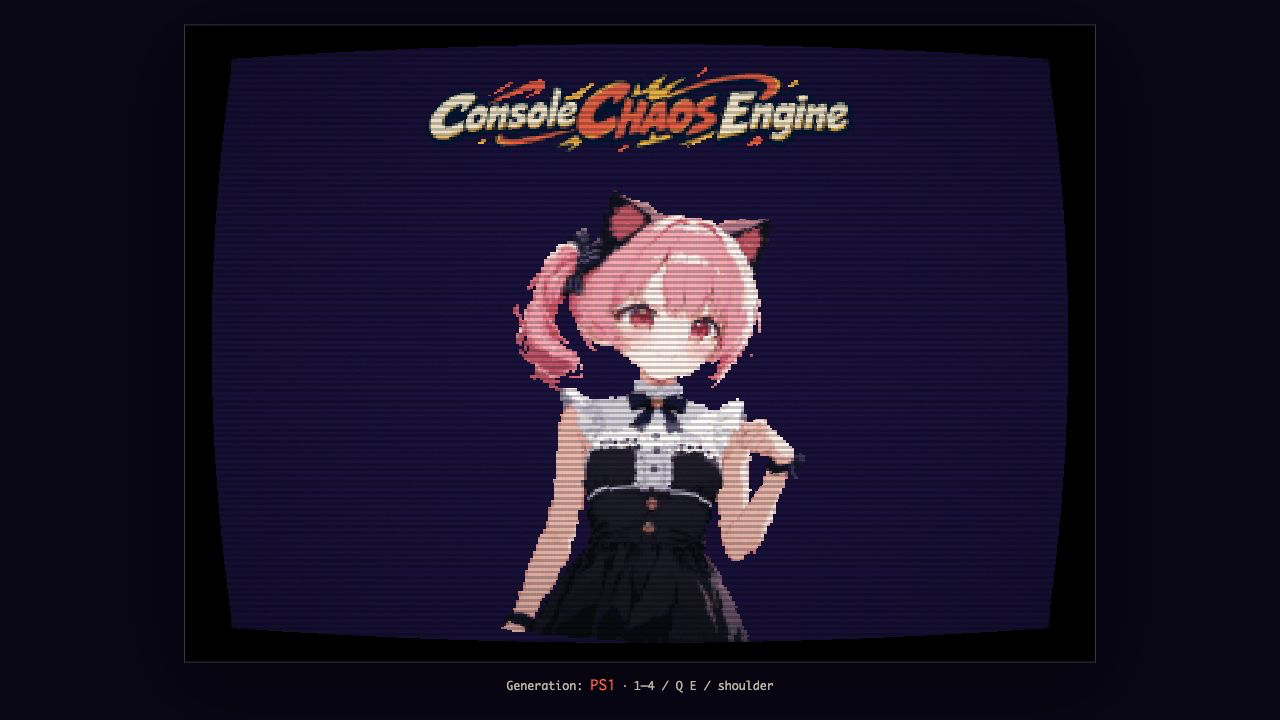
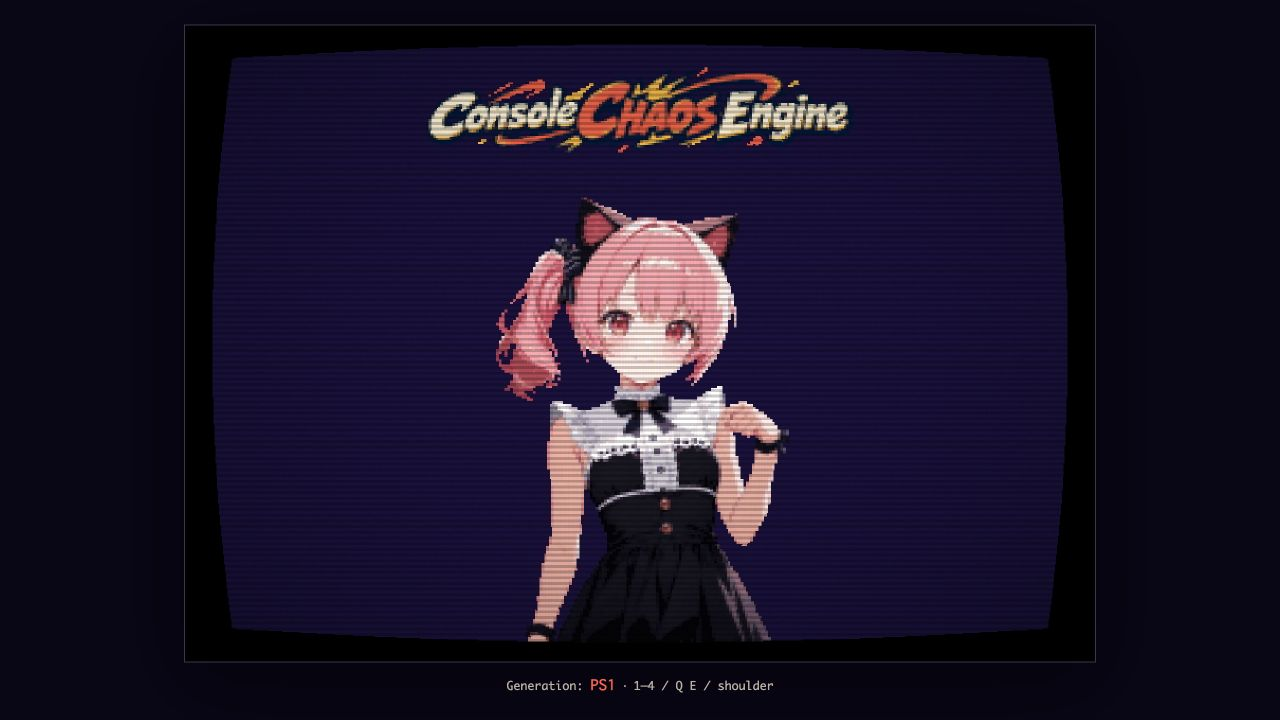
docs(asset-sample): verify imagegen source-frame workflow

Changed region(s): [[0.375, 0.275, 0.625, 0.9167], [0.3438, 0.0917, 0.6562, 0.2139]]

diff --git a/apps/asset-pipeline-sample/Docs/IMPLEMENTATION_PLAN.md b/apps/asset-pipeline-sample/Docs/IMPLEMENTATION_PLAN.md
@@ -4,12 +4,13 @@
 
 作成日: 2026-08-16
 
-状態: ImageGen変換元frameへの修正計画を策定済み（実装修正は未着手、2026-08-16）
+状態: P9〜P12のImageGen変換元frame修正、統合検証、記録を完了（2026-08-16）
 
 > **適合性メモ:** 2026-08-16に完了したP5/P6は、単一の `character-upper.png` をコードで
 > shear / warpして揺らしと目パチを生成している。この経路は「ImageGenでアニメーション状態ごとの
 > 変換元画像を `art/source` に用意し、そこから各世代へ変換する」という本サンプルの要件を満たさない。
-> 現行生成物は暫定扱いとし、P9〜P12で置き換える。
+> P9〜P12で9つのImageGen source frame、sourceごとのpipeline変換、authored pose residual、captureへ置き換えた。
+> P5/P6の実装は履歴としてのみ残し、現行経路では使用しない。
 
 ## 1. 目的
 
@@ -747,7 +748,26 @@ console-chaos-assets build \
 | 項目 | 状態 |
 |---|---|
 | 計画更新 | 完了。本書にImageGen source set、pipeline移行、runtime補正、検証を定義 |
-| P9 ImageGen source set | 未着手 |
-| P10 pipeline source migration | 未着手 |
-| P11 authored pose runtime | 未着手 |
-| P12 integration verification | 未着手 |
+| P9 ImageGen source set | 完了。9枚のsource、prompt、参照、採否、hash、canvas、alphaを記録 |
+| P10 pipeline source migration | 完了。9 IDを同名sourceへ移し、warpを削除して40出力を再生成 |
+| P11 authored pose runtime | 完了。`authoredPoseAngle` とPS1/PS2 residual Tweenを実装 |
+| P12 integration verification | 完了。4世代capture、README、本書、sample/root verifyを更新 |
+
+## 15. 修正実装結果（2026-08-16）
+
+| フェーズ | commit | 結果 |
+|---|---|---|
+| P9 | `ff9ca74` | ImageGenをvariantごとに実行し、1024×1536の9 source frameと完全なprovenanceを追加 |
+| P10 | `d2c313c` | 9 sourceを1対1でmanifestへ追跡し、semantic warpを削除、共有FC paletteで40出力を再生成 |
+| P11 | `8f9150f` | `-5° / 0° / +5°` のauthored poseとruntime residualを分離し、animation / render / lifecycle testを更新 |
+| P12 | `docs(asset-sample): verify imagegen source-frame workflow` | 4世代capture、再現手順、受入結果、commit対応を記録 |
+
+修正後の受入結果:
+
+- production入力はロゴ1枚＋character 9枚の計10枚。9つのcharacter sourceは異なるSHA-256を持ち、`character-upper.png` は参照anchorとして変換入力外
+- `motionWarp`、`blinkWarp`、body shear相当処理は `art.config.mjs` から削除。2回目の `assets:build` はwritten 0
+- asset contractは40出力、FCのロゴ＋全character frameの共有色17色、source path / hash / canvas / pivot / palette / alpha /決定性を確認
+- `npm run verify -w @console-chaos/asset-pipeline-sample`: 成功（Vitest 5 files / 20 tests、lint、browser/tool TypeScript、Vite buildを含む）
+- `npm run verify`: 成功（Engine 46、engine-testkit 1、asset pipeline 25、sample 20、Console Chaos 415、E2E 2 tests、boundaryと全buildを含む）
+- `Docs/captures/title-{fc|sfc|ps1|ps2}.png`: 1280×720、`captureTime=0.5`、同じ右端開眼位相で再取得
+- ブラウザ目視: `captureTime=0.5` で4世代のsource姿勢とPS1/PS2 residual 0°、`captureTime=2.9` で4世代の閉眼frameを確認。identity drift、frame jump、二重傾斜、halo、欠け、console warning/errorなし

diff --git a/apps/asset-pipeline-sample/Docs/ASSET_PROVENANCE.md b/apps/asset-pipeline-sample/Docs/ASSET_PROVENANCE.md
@@ -152,3 +152,11 @@ Avoid: changing anything outside the eyelids and covered eye area, winking, asym
 - 生成別の見た目調整は `tools/art.config.mjs` の recipe へ記録する。
 - `public/assets/generated` のPNGは編集せず、必ず asset pipeline から再生成する。
 - Image Gen に世代名を指定した直接生成、世代別の構図変更、手作業のpixel化は行わない。
+
+## 統合検証（2026-08-16）
+
+- `asset-manifest.json` の9つのcharacter asset IDが、同名source pathと本書記載の異なるSHA-256へ1対1で対応することを自動検査した
+- `character-upper.png` がmanifestの変換入力に含まれず、builderにpose、ponytail、blinkを合成するwarp / shearが残っていないことを自動検査した
+- 40出力の `assets:check`、共有FC 17色、RGB555、alpha mode、bounds、2回目buildのwritten 0を確認した
+- 1280×720、`captureTime=0.5` の4世代captureで右端開眼poseを比較し、`captureTime=2.9` の一時captureで全世代の閉眼frameを比較した
+- 同一人物、衣装、canvas構図、下端pivotを保ち、ImageGen source差分が全世代へ到達すること、PS1/PS2端点でruntime residualが0°となること、haloや輪郭欠けがないことを目視確認した
